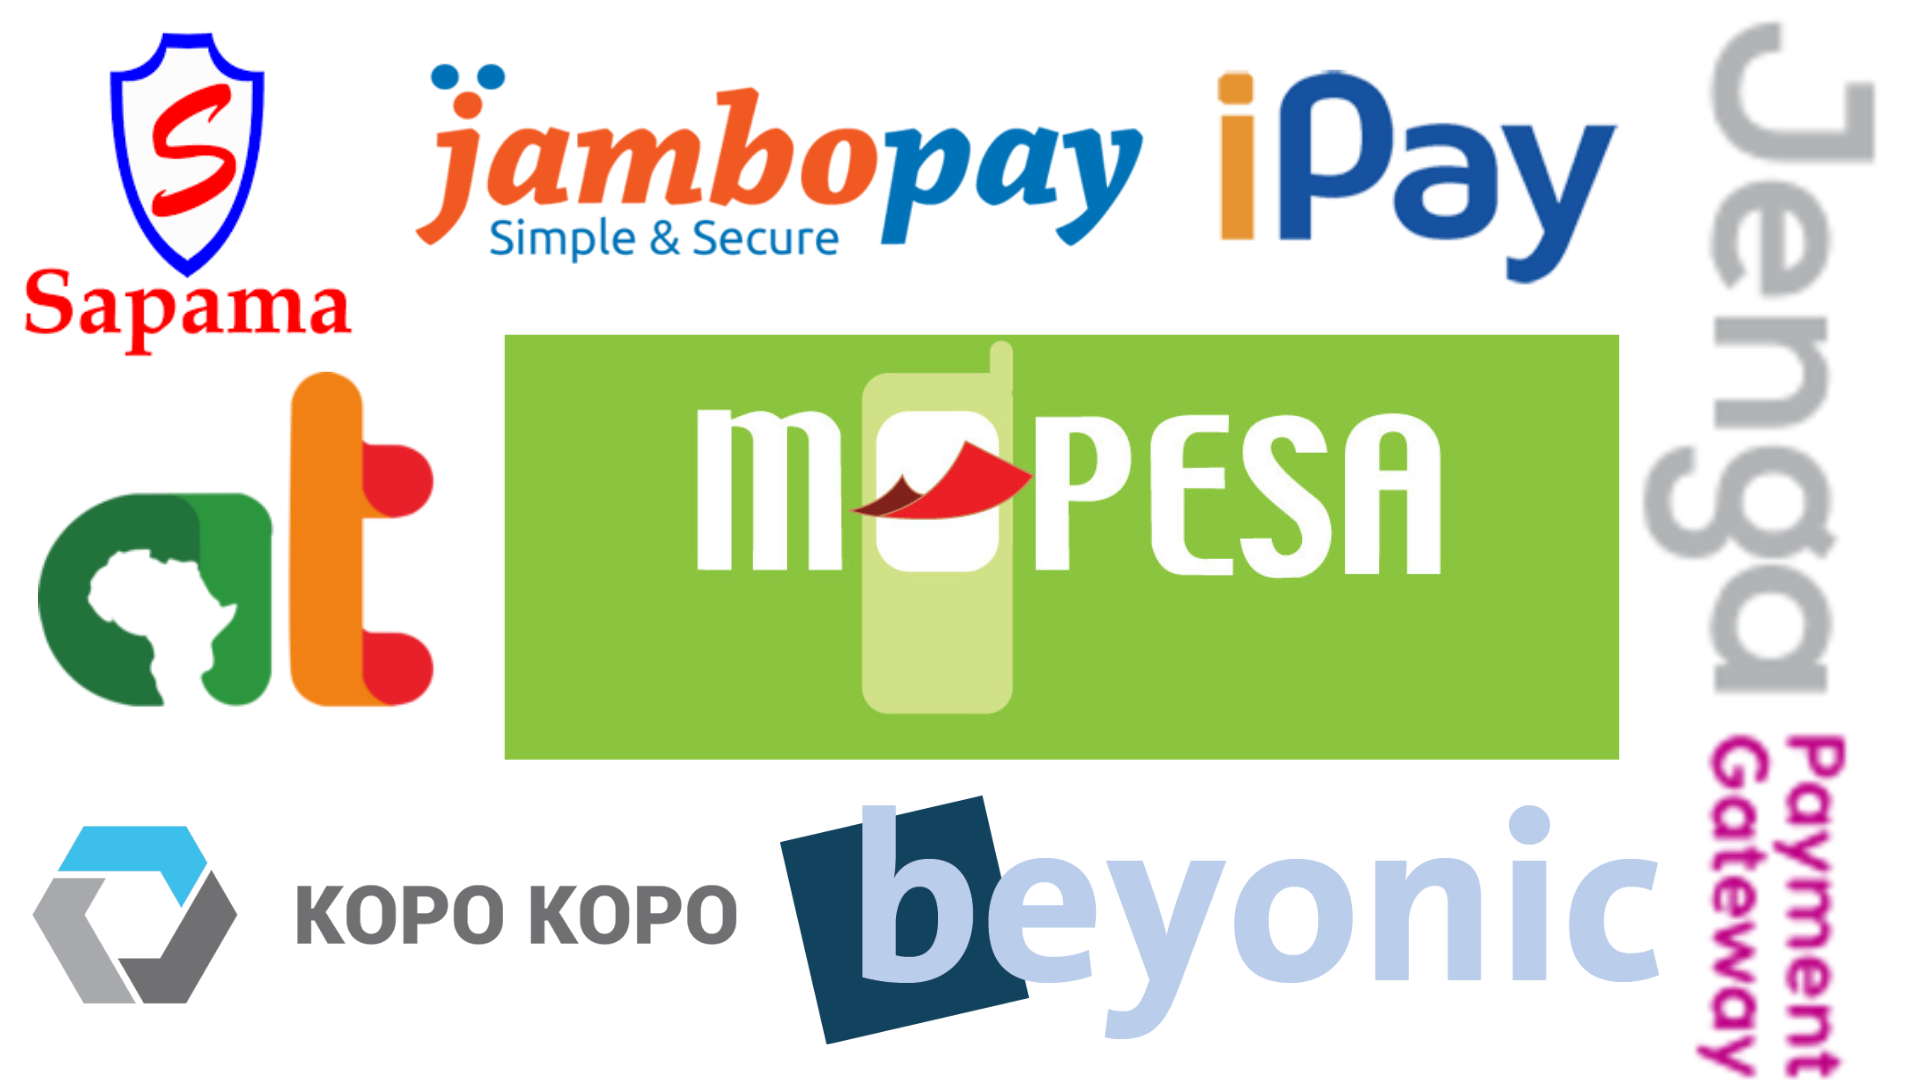
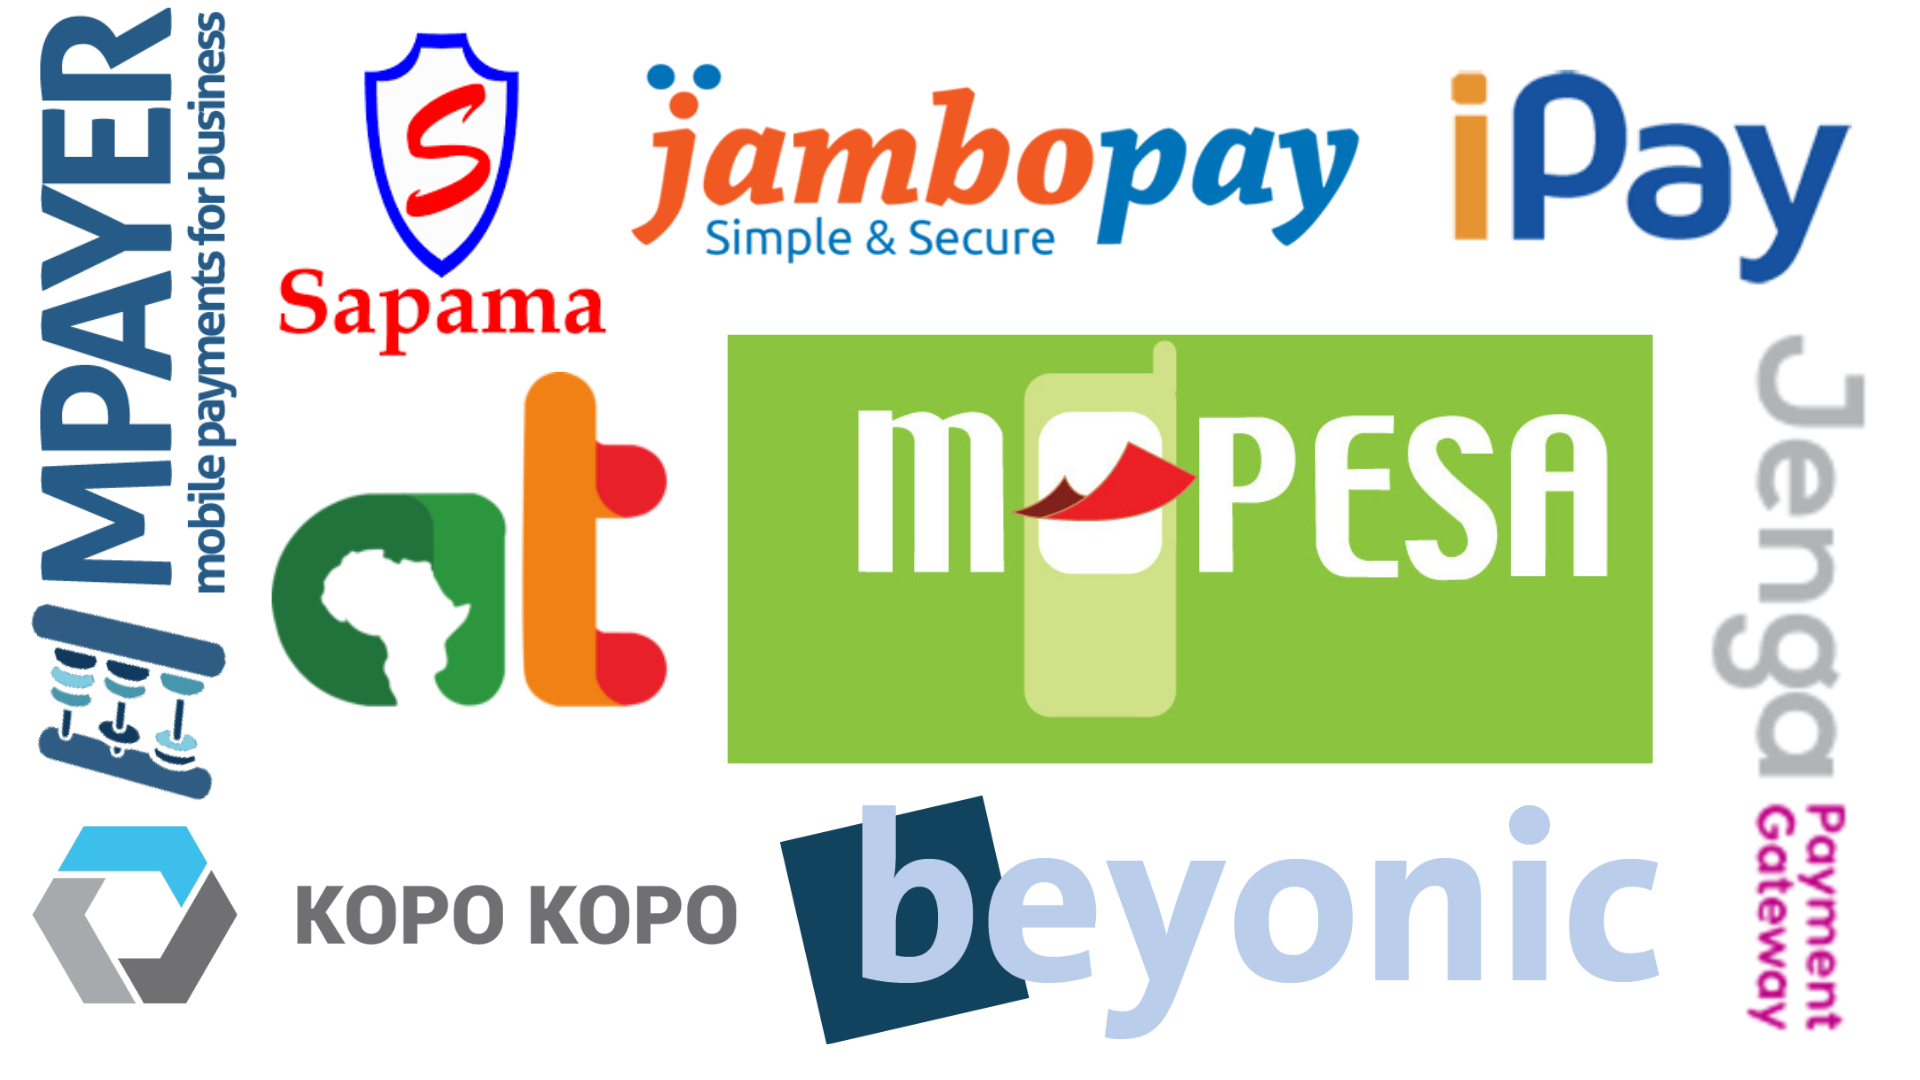
Mpayer (#52)
* added mpayer

* minor fix

* included postman collections for ipay and beyonic, updated collage

* fix to wording

diff --git a/_posts/2018-12-07-payment-gateways-Kenya.md b/_posts/2018-12-07-payment-gateways-Kenya.md
@@ -3,7 +3,7 @@ layout: blog
 title: Developers getting paid online in Kenya, Whats the fuss!  
 author: Tom Nyongesa, Ngari Ndung'u, Melvin Atieno
 blog-image: localgateways/kenyan-gateways.png
-intro: With the rise in use of mobile payment in Kenya, businesses are scrambling to put their houses in order just to keep up with the fast technological pace and the adaption of online payments by Kenyans. Kenyans at large are really interested in the outcome. They want an easy payment interface that hides the complex processes of integration. This process is largely a developer's task. And this is a developer's journey in analysing Kenyan online payment gateways and their ease of integration.
+intro: With the rise in use of mobile payment in Kenya, businesses are scrambling to put their houses in order just to keep up with the fast technological pace and the adaption of online payments by Kenyans. Kenyans at large are really interested in the outcome - an easy payment interface that hides the complex processes of integration. This process is largely a developer's task. And this is a developer's journey in analysing Kenyan online payment gateways and their ease of integration.
 ---
 ![Payment Gateways](/assets/images/blog/{{page.blog-image}}){:class="img-responsive center"}
 {{page.intro}}
@@ -41,8 +41,11 @@ The API requires an HMAC signature to be sent along with the payload. With param
 
 The shortened parameter names do not help either. It worked but took a while.
 
+[iPay Postman Collections](https://documenter.getpostman.com/view/1238477/RznHKdTM)
+
 ### 4. Africa's Talking
 ![Africa's Talking](/assets/images/blog/localgateways/africastalking.png){:class="img-responsive center img-standard"}
+
 [Africa's talking](http://docs.africastalking.com/) provides Restful APIs for integration with their various services. These services include; SMS, voice, Payments, USSD, and Airtime. Our point of focus was mainly their payment services. Customer to Business (C2B), Business to Customer (B2C), and Business to business (B2B). The services are offered over mobile, banks and cards. There are client SDKs for PHP, Python, C#, Java, JS, and Ruby. For mobile payments, Africa's talking does the hosting and one needs a dedicated pay bill with Safaricom M-Pesa (application process takes approximately 5 days). They do not offer any other mobile payment services. The bank payment and card payment services are currently only available in Nigeria. The accepted cards are MasterCard and Verve cards. Africa's talking offers a sandbox, a simulator and associated endpoints for testing. On integration one also gets a dashboard on which they can monitor transactions and carry out other maintenance services such as getting credentials for authentication and creating products.
 
 [Africa's Talking Postman Collection](https://documenter.getpostman.com/view/5951719/RzfnkSEu )
@@ -57,6 +60,7 @@ Without documentation it was not possible to test out the API.
 ### 6. Sapama Cash
 ![Sapama Cash](/assets/images/blog/localgateways/sapama.png){:class="img-responsive center img-standard"}
 [Sapama cash](http://sapamacash.com/docs) supports payments made via Equitel and Mpesa only. 
+
 Getting an account with Sapama Cash can also be a hurdle. However, they provide credentials for their test account which you can use to test out their C2B, B2C and other APIs. Something else about their system is that once you login with their test credetials, you are provided with html forms which you use to fill in your API parameters and callback urls. They probably might be using this to cater to the less tech-savvy individuals, people who are used to html forms. It would make things easier for them and make them less concerned about the kind of language to use when interacting with their APIs. However, their form submit buttons result to error pages as of this publication.
 
 They have a documentation that seems easy to follow the only problem being that their endpoints result to error pages that exposes too much information about their system, simply put as poor exception handling and security. 
@@ -75,6 +79,7 @@ If you need to test the APIs with your test account credentials, you have to aut
 [Jenga Postman Collection](https://documenter.getpostman.com/view/1238477/Rzfnikkt)
 
 ### 8. Lipisha
+
 ![Lipisha](/assets/images/blog/localgateways/lipisha.png){:class="img-responsive center img-standard"}
 
 [Lipisha](https://lipisha.com/payments/accounts/index.php/app/launch) is a payment service provider that allows integration through webhooks, popular e-commerce Plugins, and RestAPIs. The details on integration through plugins is not available. The APIs allow integration of mobile and card payment services. The available option for mobile payment services is M-Pesa. The endpoints also allow integration of payout services to clients' mobile wallet. The documentation could be made clearer for all the services Lipisha can provide. They offer a sandbox for testing and the endpoints can be tested manually using postman.
@@ -83,7 +88,9 @@ If you need to test the APIs with your test account credentials, you have to aut
 
 ### 9. Flutterwave
 ![Flutterwave](/assets/images/blog/localgateways/rave.svg){:class="img-responsive center img-standard"}
+
 Also called [Rave](https://rave.flutterwave.com/), the Flutterwave Rave API provides mobile money and card payment integration. They also have tight bank integration in Nigeria.
+
 Nodejs and Android SDKs are provided along with plugins for the more popular CMSs.
 Documentation for the API is provided, though it can be a bit of a challenge to navigate through.
 The main documentation page is focused on quick integration using their javascript library and page embeds, with the reference page giving the fuller outlook of the API.
@@ -101,11 +108,15 @@ They support payments in Mpesa, Masterpass and T-Kash.
 [Beyonic](https://beyonic.com/) is focused on mobile money integrations. With their API you can receive money and make payments in Kenya, Uganda, Rwanda, Tanzania and Rwanda.
 
 There are official client libraries for Python, Ruby and PHP with code samples for Java. 
+
 There is a Woo-Commerce plugin for integrating with Wordpress sites, and beta integration with Zapier.
+
 The API is well documented with helpful pointers for the developer to follow.
 
 At the time of testing, the test environment seemed to be in maintenance. Being unable to load BXC(Beyonic test currency) we couldn’t test the payments endpoints.
 It was still possible to test some collection endpoints using the documented test numbers.
+
+[Beyonic Postman Collection](https://documenter.getpostman.com/view/1238477/RznHKdXd)
 
 ### 12. Direct Pay
 ![Direct Pay](/assets/images/blog/localgateways/dpo.png){:class="img-responsive center img-standard"}
@@ -113,6 +124,7 @@ It was still possible to test some collection endpoints using the documented tes
 
 ### 13 Mpayer
 ![Mpayer](/assets/images/blog/localgateways/mpayer.png){:class="img-responsive center img-standard"}
+
 [Mpayer](http://mpayer.co.ke) is another payment gateway that has been around for a couple of years. It provides payment services for businesses and organizations through Mpesa, Airtel Money and Cash transfers. In addition, it provides tools for analysing business performance, managing the business activities and customer engangement, useful in client centric busineses like microfinance organisation and educational institutions. Uniquely, it has a very unconventional onboarding process where customers can sign up through an MPESA transaction and activate a wallet immediately. 
 
 It provides a JSON and XML RESTful API that's currently available to customers only, meaning that ther is no test environment. The authentication protocol used is WSSE. Public documentation is not available, neither is any sample integration code. This makes it difficult for one to test. MPAYER has and interesting role structure with one of the users roles being a teller or branch. Tellers can process transcations and have access to transacton API calls, that is making deposits, transfers, withdrawals. Other none tranasction API endpoints are available to other roles. 
@@ -140,6 +152,7 @@ On a scale of 1-5, here are the findings based on the following features:
 | Rave | 4 | 4 | 4 | 4 | 4 | **4** |
 | Beyonic | 4 | 4 | 3 | 4 | 3 | **3** |
 | Direct Pay | - | - | - | - | - | - |
+| M-payer | 1 | 1 | 1 | 1 | 1 | 1 |
 
 Here's a table that summarizes the functionality. I believe this will help you save some time:
 
@@ -156,8 +169,9 @@ Here's a table that summarizes the functionality. I believe this will help you s
 | iPay | Yes | Yes | Yes | Yes | Yes | Mpesa, Credit/Debit card, Equitel, Airtel Money, kenswitch |
 | Rave | Yes | Yes | Yes | Yes | Yes | Mpesa, Credit/Debit card |
 | Beyonic | Yes | Yes | Yes | Yes | Yes | Mpesa, Airtel |
+| M-Payer | Yes | No | Yes | No | No | Mpesa, Airtel |
 
-The list doesn't end there. There are other pageways that exist that are note quite mainstream payment processers. However they do enable customers to get paid in kenya via various payment channels. These could be payment integrator comanies or niche market gateways. Some notable mentions include:
+The list doesn't end there. There are other pageways that exist that are note quite mainstream payment processers. However they do enable customers to get paid in kenya via various payment channels. These could be payment integrator companies or niche market gateways. Some notable mentions include:
 
 Corporate and enterprise focused providers. 
 1. [Popote Pay](https://popotepayments.co.ke)
